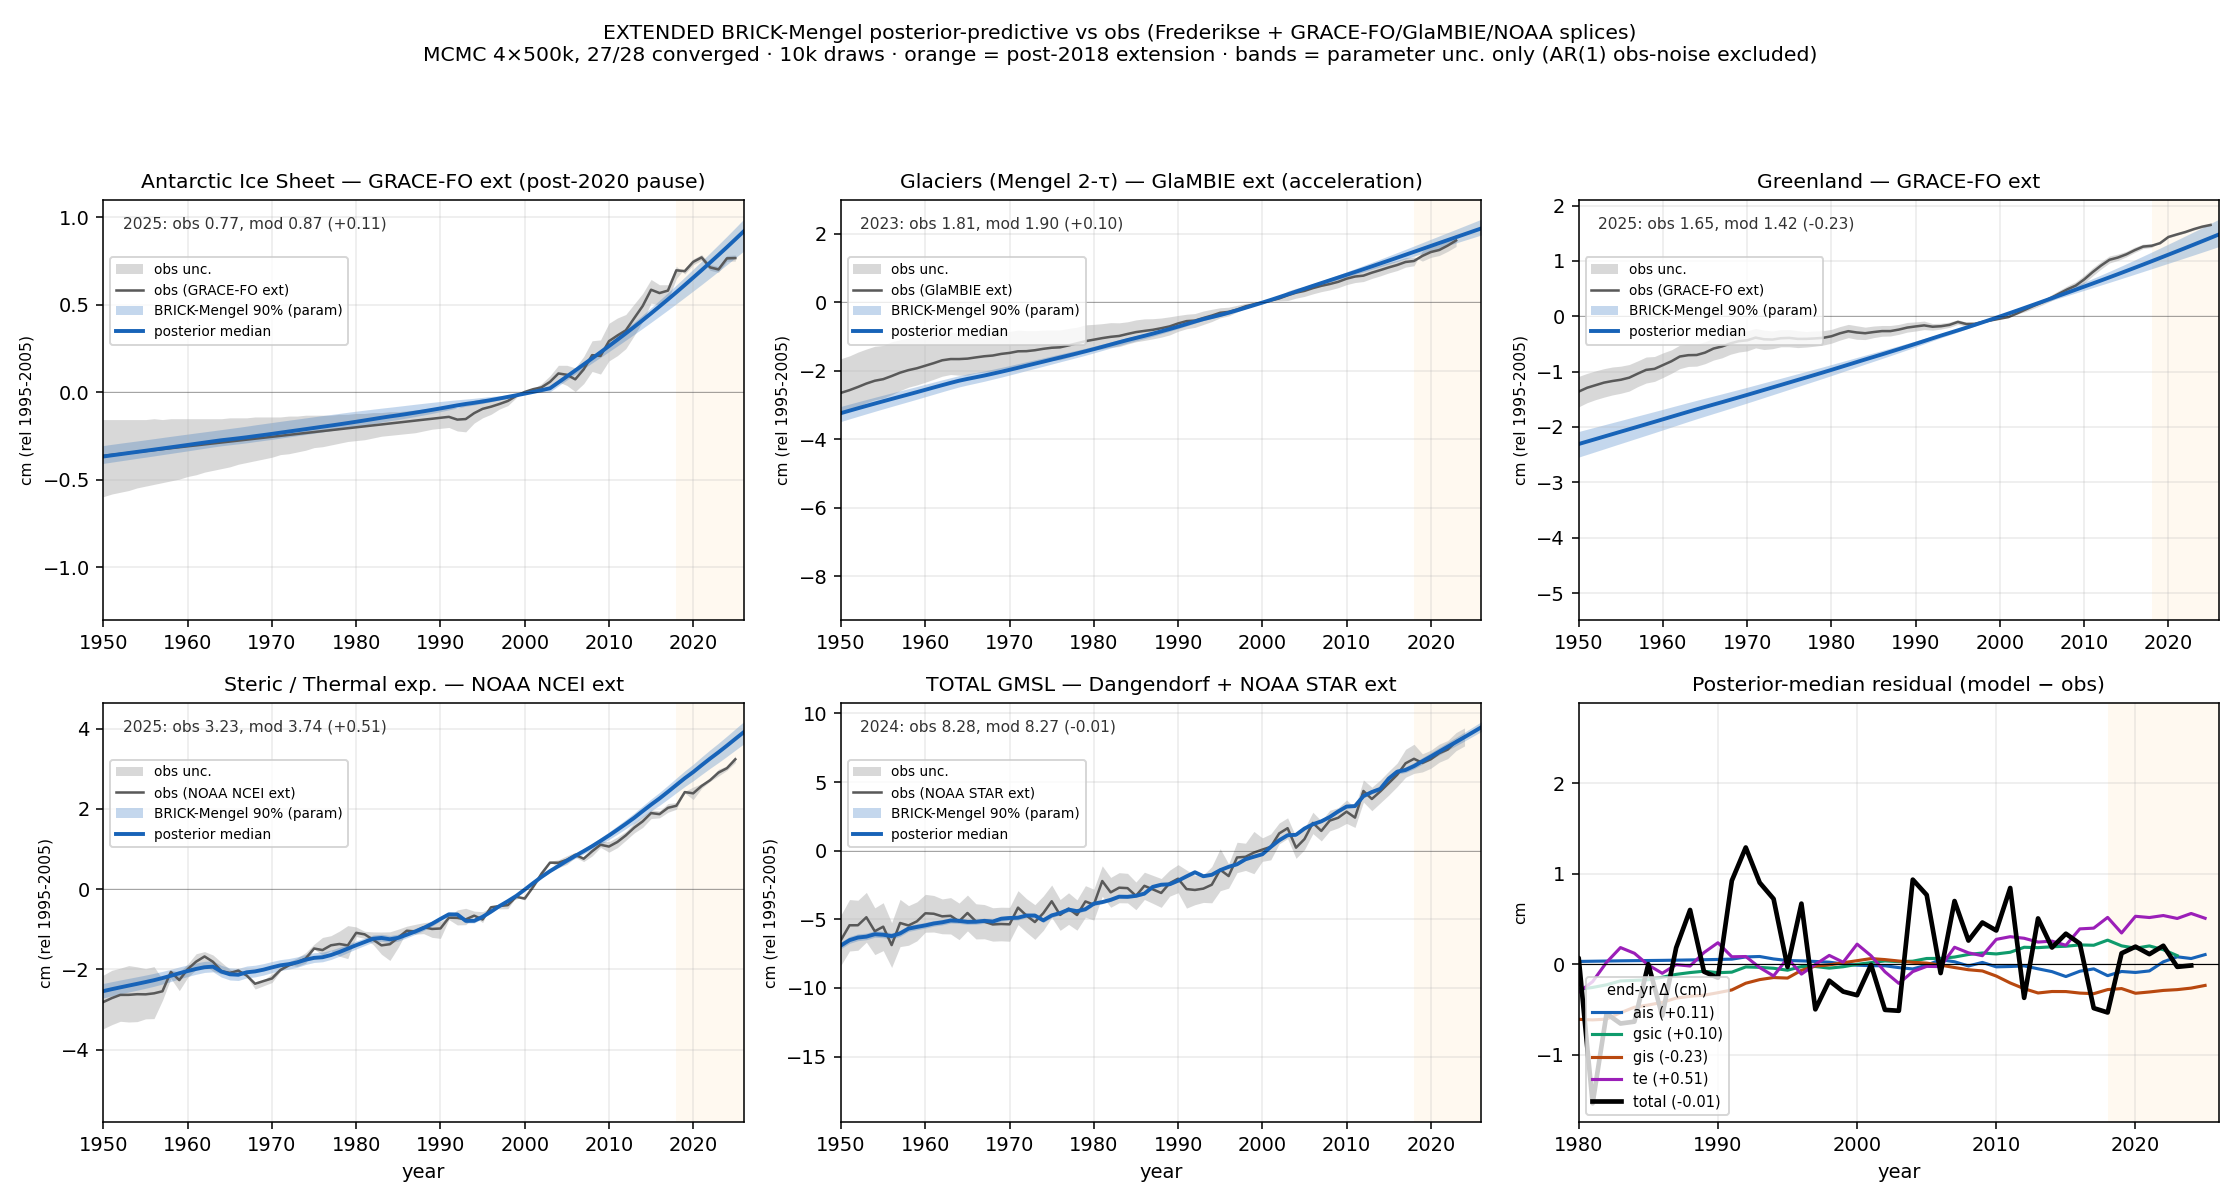
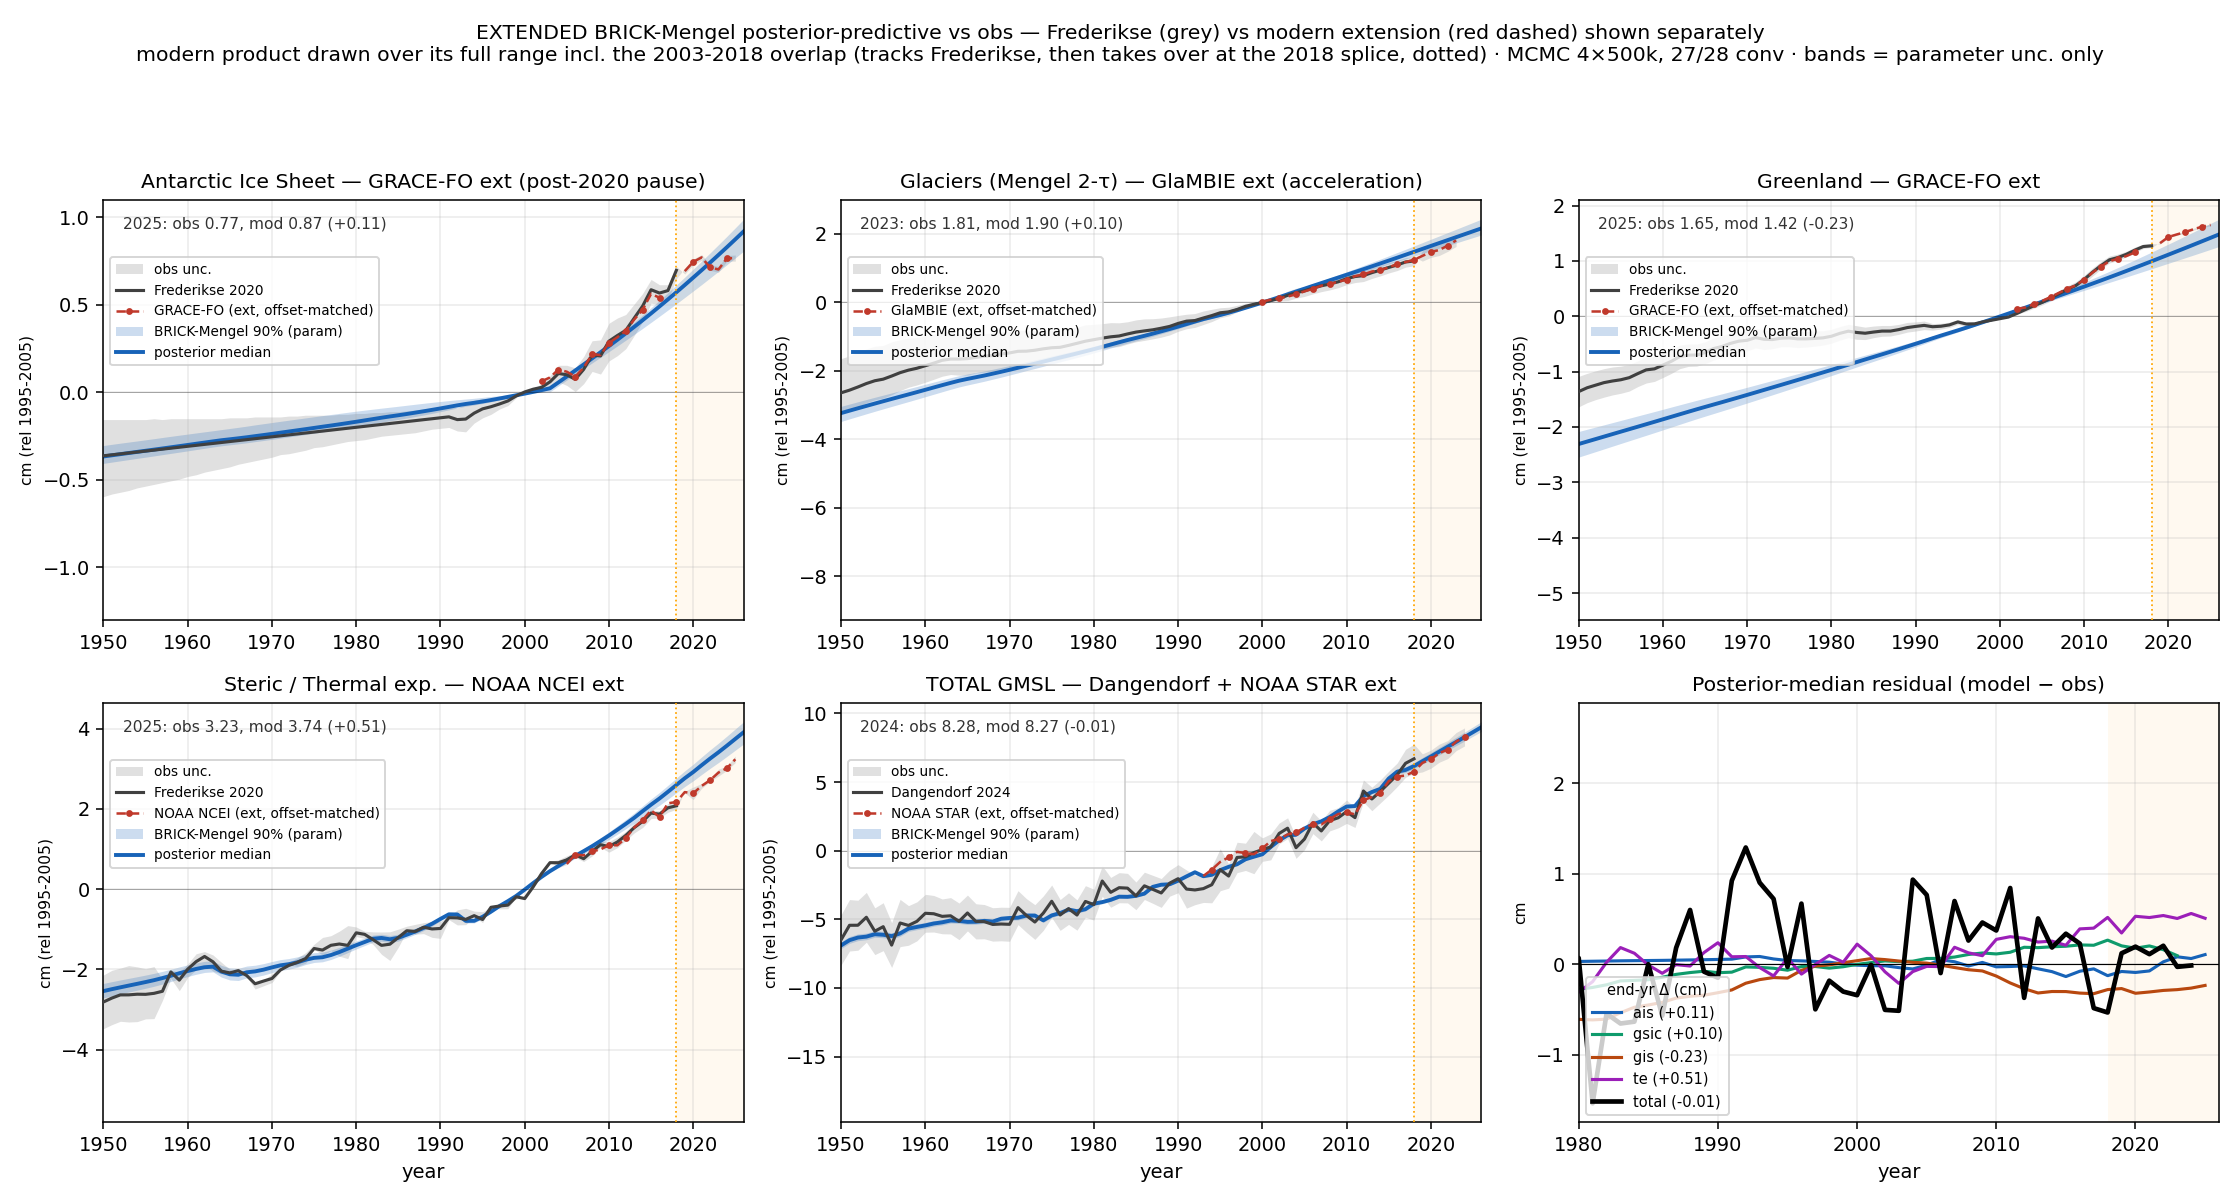
Hindcast figure: show Frederikse vs modern-extension obs separately; remake SSP fig for ext posterior
Marcus 2026-06-13:
1. Hindcast obs provenance -- the splice does NOT obscure source. prep_recalib_targets_ext.py
   now writes outputs/recalib_targets_ext_sources.csv (Frederikse vs offset-matched modern as
   SEPARATE columns, full ranges). plot_postpred_components_ext.py draws Frederikse (grey solid,
   1900-2018) vs each modern extension (GRACE-FO/GlaMBIE/NOAA, red dashed) over its full range
   incl. the 2003-2018 overlap -- showing the modern product tracks Frederikse then takes over at
   the marked 2018 splice (clean handoff + level offset, not a blend).
2. plot_ssp_projections_mengel.py: backward-compatible TAG arg ([TAG]); TAG=ext regenerates the
   3-panel SSP-2100 figure from the extended posterior -> ssp_projections_2100_mengel_ext.png.
   Default (baseline) byte-compatible; both titles now name the calibration vintage.

diff --git a/python/plot_postpred_components_ext.py b/python/plot_postpred_components_ext.py
@@ -24,12 +24,15 @@ import matplotlib.pyplot as plt
 REPO = os.path.expanduser("~/Documents/2026/CodeProjects/SLR-RFF-BRICK")
 SRC  = os.path.join(REPO, "outputs/postpred_ext_components_timeseries.csv")
 TGT  = os.path.join(REPO, "outputs/recalib_targets_ext.csv")
+PROV = os.path.join(REPO, "outputs/recalib_targets_ext_sources.csv")   # Frederikse vs modern, separated
 OUT  = os.path.join(REPO, "outputs/postpred_ext_components.png")
 EXT_Y0 = 2018          # extension starts after this (shaded)
 
 d = pd.read_csv(SRC)
 tg = pd.read_csv(TGT).set_index("year")
+prov = pd.read_csv(PROV).set_index("year")
 yr = d["year"].values
+FRED_C, MODERN_C = "0.25", "#c0392b"     # Frederikse = dark grey, modern extension = red
 
 # map panel component -> obs column in recalib_targets_ext (for the uncertainty band)
 OBSCOL = {"ais": "ais", "gsic": "gsic", "gis": "gis", "te": "steric", "total": "dang"}
@@ -56,9 +59,16 @@ for ax, (c, title) in zip(ax_list[:5], panels):
         olo = tg[f"{oc}_lo"].reindex(yr).values
         ohi = tg[f"{oc}_hi"].reindex(yr).values
     ax.axvspan(EXT_Y0, yr.max(), color="orange", alpha=0.06, lw=0)
-    ax.fill_between(yr, olo, ohi, color="0.75", alpha=0.6, lw=0, label="obs unc.")
-    ax.plot(yr, d[f"{c}_obs"], color=OBS_C, lw=1.3, label=f"obs ({SRCLAB[c]} ext)")
-    ax.fill_between(yr, d[f"{c}_p5"], d[f"{c}_p95"], color=MOD_C, alpha=0.25, lw=0,
+    ax.fill_between(yr, olo, ohi, color="0.78", alpha=0.55, lw=0, label="obs unc.")
+    # OBS PROVENANCE: Frederikse (1900-2018) vs the offset-matched modern extension,
+    # drawn over its FULL range incl. the 2003-2018 overlap (shows it tracks Frederikse
+    # then takes over) -- the splice is a clean handoff, not a blend.
+    flab = "Dangendorf 2024" if c == "total" else "Frederikse 2020"
+    ax.plot(prov.index, prov[f"{oc}_fred"],   color=FRED_C,   lw=1.6, label=flab, zorder=5)
+    ax.plot(prov.index, prov[f"{oc}_modern"], color=MODERN_C, lw=1.3, ls="--", zorder=6,
+            marker="o", ms=2.5, markevery=2, label=f"{SRCLAB[c]} (ext, offset-matched)")
+    ax.axvline(EXT_Y0, color="orange", lw=0.9, ls=":", zorder=4)
+    ax.fill_between(yr, d[f"{c}_p5"], d[f"{c}_p95"], color=MOD_C, alpha=0.22, lw=0,
                     label="BRICK-Mengel 90% (param)")
     ax.plot(yr, d[f"{c}_p50"], color=MOD_C, lw=2.0, label="posterior median")
     # end-year bias annotation
@@ -88,9 +98,9 @@ axr.legend(fontsize=7.5, loc="lower left", title="end-yr Δ (cm)", title_fontsiz
 for ax in axes[1, :]:
     ax.set_xlabel("year")
 
-fig.suptitle("EXTENDED BRICK-Mengel posterior-predictive vs obs (Frederikse + GRACE-FO/GlaMBIE/NOAA splices)\n"
-             "MCMC 4×500k, 27/28 converged · 10k draws · orange = post-2018 extension · "
-             "bands = parameter unc. only (AR(1) obs-noise excluded)",
+fig.suptitle("EXTENDED BRICK-Mengel posterior-predictive vs obs — Frederikse (grey) vs modern extension (red dashed) shown separately\n"
+             "modern product drawn over its full range incl. the 2003-2018 overlap (tracks Frederikse, then takes over at the 2018 splice, dotted) · "
+             "MCMC 4×500k, 27/28 conv · bands = parameter unc. only",
              fontsize=10.5)
 fig.tight_layout(rect=[0, 0, 1, 0.93])
 fig.savefig(OUT, dpi=140)

diff --git a/python/plot_ssp_projections_mengel.py b/python/plot_ssp_projections_mengel.py
@@ -23,12 +23,14 @@ MimiBRICK v2.0.0 default component (net groundwater depletion - reservoir
 impoundment), identical between old BRICK and Mengel, ~2.3-2.9 cm and climate-
 independent.
 
-Inputs: outputs/proj_ssps_mengel_{summary,timeseries}.csv (Mengel posterior),
+Inputs: outputs/proj_ssps_mengel{SUF}_{summary,timeseries}.csv (Mengel posterior),
         outputs/proj_ssps_ensemble_summary.csv (old BRICK, v2.0.0 unweighted).
         All cm, rel 1995-2014.
-Output: outputs/ssp_projections_2100_mengel.png
+Output: outputs/ssp_projections_2100_mengel{SUF}.png
+
+  python python/plot_ssp_projections_mengel.py [TAG]   # ""=2018-baseline (default) | "ext"=extended
 """
-import os
+import os, sys
 import numpy as np
 import pandas as pd
 import matplotlib
@@ -37,13 +39,16 @@ import matplotlib.pyplot as plt
 import matplotlib.lines as ml
 
 REPO = os.path.expanduser("~/Documents/2026/CodeProjects/SLR-RFF-BRICK")
-S = pd.read_csv(os.path.join(REPO, "outputs/proj_ssps_mengel_summary.csv"))
-T = pd.read_csv(os.path.join(REPO, "outputs/proj_ssps_mengel_timeseries.csv"))
+TAG  = sys.argv[1] if len(sys.argv) > 1 else ""           # ""=2018-baseline; "ext"=post-2018-extended
+SUF  = "" if TAG == "" else f"_{TAG}"
+CALLABEL = "2018-baseline" if TAG == "" else "post-2018-extended (GRACE-FO/GlaMBIE/NOAA)"
+S = pd.read_csv(os.path.join(REPO, f"outputs/proj_ssps_mengel{SUF}_summary.csv"))
+T = pd.read_csv(os.path.join(REPO, f"outputs/proj_ssps_mengel{SUF}_timeseries.csv"))
 # OLD BRICK (stock single-reservoir glacier, old posterior): v2.0.0 unweighted rows
 O = pd.read_csv(os.path.join(REPO, "outputs/proj_ssps_ensemble_summary.csv"))
 O = O[(O.calib == "v2.0.0") & (O.weighting == "unweighted")]
-OUT = os.path.join(REPO, "outputs/ssp_projections_2100_mengel.png")
-NDRAWS = pd.read_csv(os.path.join(REPO, "data/MimiBRICK/parameters_subsample_brick_mengel.csv")).shape[0]
+OUT = os.path.join(REPO, f"outputs/ssp_projections_2100_mengel{SUF}.png")
+NDRAWS = pd.read_csv(os.path.join(REPO, f"data/MimiBRICK/parameters_subsample_brick_mengel{SUF}.csv")).shape[0]
 
 ORDER = ["SSP1-1.9", "SSP1-2.6", "SSP2-4.5", "SSP4-6.0", "SSP3-7.0", "SSP5-8.5"]
 COL = dict(zip(ORDER, plt.cm.viridis(np.linspace(0.05, 0.92, len(ORDER)))))
@@ -125,7 +130,7 @@ handles.append(ml.Line2D([], [], color="0.4", marker="s", lw=0, markersize=9,
 axc.legend(handles=handles, fontsize=7.6, loc="upper left", ncol=2)
 axc.grid(axis="y", alpha=0.25)
 
-fig.suptitle(f"BRICK-Mengel GMSL projections to 2100 — {NDRAWS:,}-draw MCMC posterior, FaIR v1.4.5-forced (unweighted)\n"
+fig.suptitle(f"BRICK-Mengel GMSL projections to 2100 — {CALLABEL} calibration, {NDRAWS:,}-draw MCMC posterior, FaIR v1.4.5-forced (unweighted)\n"
              "Posterior already Dangendorf-conditioned (no importance weighting). High-forcing median runs high vs "
              "AR6 via the per-draw AIS-MICI threshold; low-forcing runs below AR6 (GIS/GSIC undershoot)",
              fontsize=10.5)

diff --git a/python/prep_recalib_targets_ext.py b/python/prep_recalib_targets_ext.py
@@ -163,6 +163,18 @@ for suf in ["", "_lo", "_hi"]:
 out.reset_index().to_csv(OUT_CSV, index=False)
 print(f"\nWrote {OUT_CSV}  ({len(out)} yrs {FIT_Y0}-{EXT_Y1})")
 
+# ---- provenance sidecar: keep Frederikse and the (offset-matched) modern product
+# as SEPARATE columns over their FULL ranges, so the hindcast figure can show which
+# obs is Frederikse vs GRACE-FO/GlaMBIE/NOAA (incl. the overlap, where the modern
+# product sits on top of Frederikse -- demonstrating the splice is consistent, not blended).
+OUT_SRC = os.path.join(REPO, "outputs/recalib_targets_ext_sources.csv")
+src = pd.DataFrame({"year": years}).set_index("year")
+for tgt in ["ais", "gis", "gsic", "steric", "dang"]:
+    src[tgt + "_fred"]   = fred[tgt].reindex(years).values                  # Frederikse/Dangendorf (1900-2018)
+    src[tgt + "_modern"] = splices[tgt][0].reindex(years).values            # offset-matched modern, full range
+src.reset_index().to_csv(OUT_SRC, index=False)
+print(f"Wrote {OUT_SRC}  (Frederikse vs modern-extension columns, separated)")
+
 # ============================================================ IMBIE cross-check + plot
 imbie = {}
 for tgt, fn in [("ais", "imbie_antarctica_2021_mm.csv"), ("gis", "imbie_greenland_2021_mm.csv")]:
